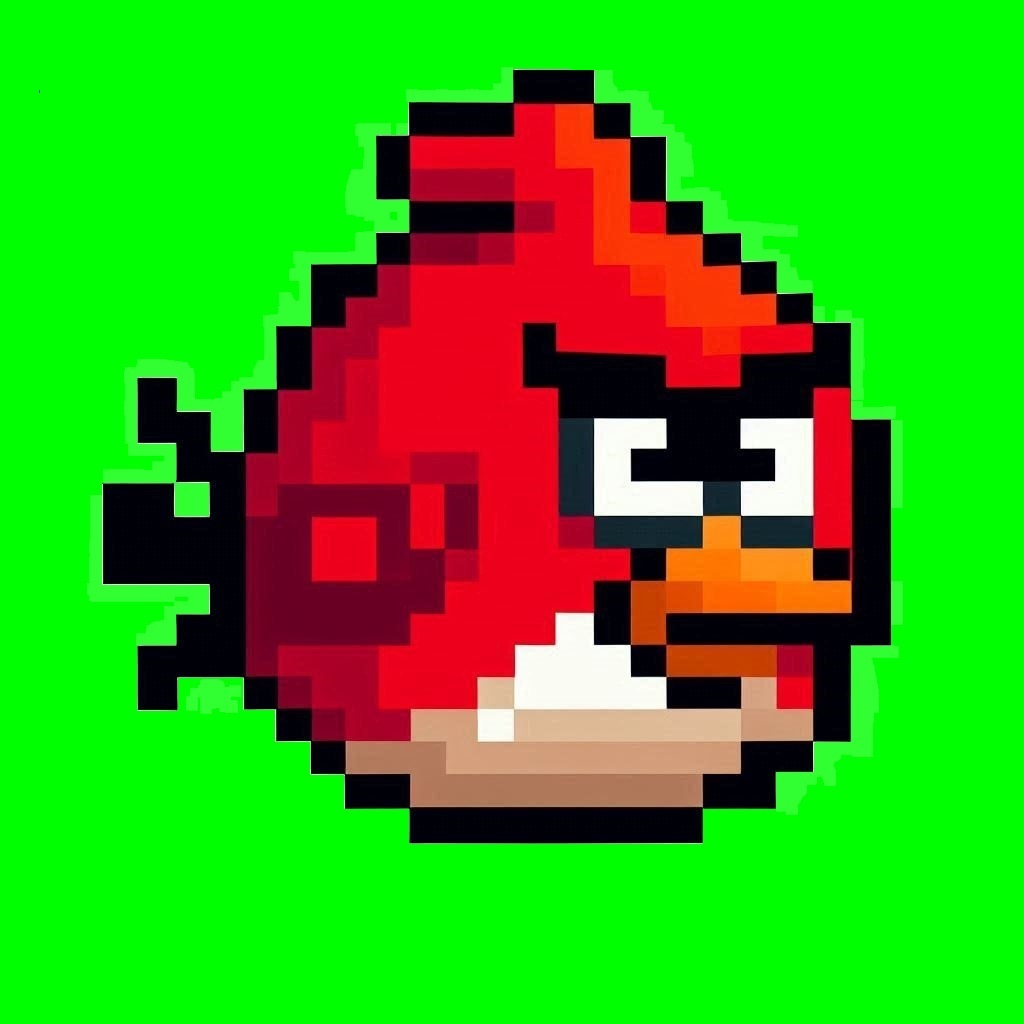
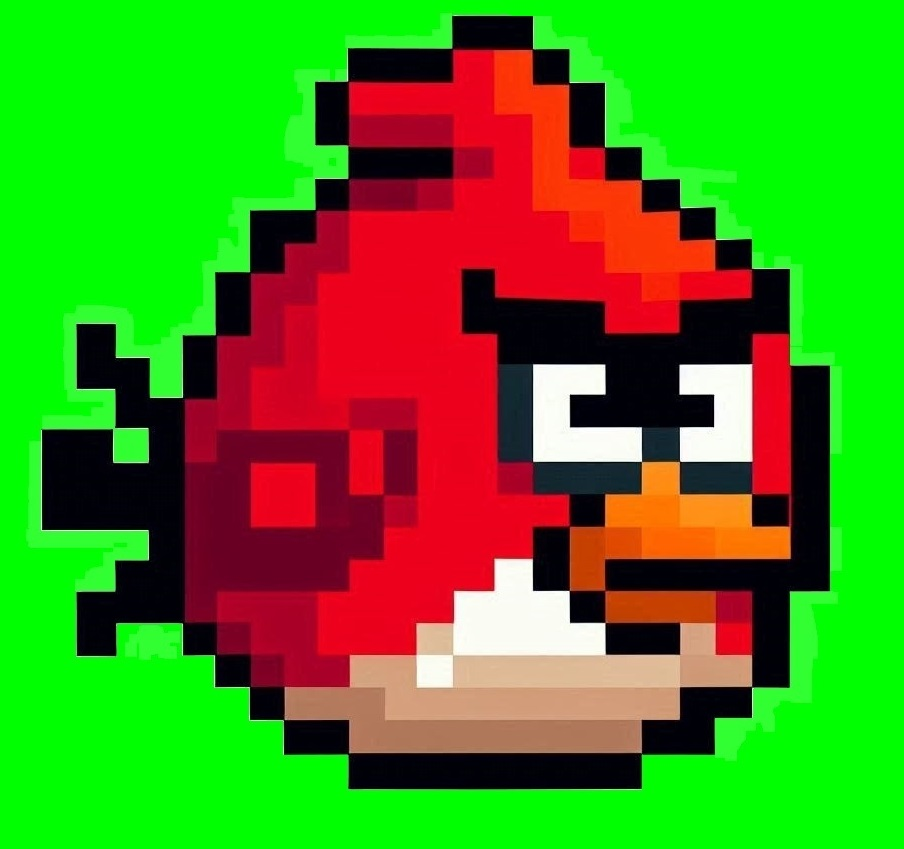
new choosen animal model

diff --git a/oolab/src/main/java/agh/ics/oop/model/Animal.java b/oolab/src/main/java/agh/ics/oop/model/Animal.java
@@ -74,14 +74,6 @@ public class Animal implements WorldElement {
         return position;
     }
 
-    public MapDirection getOrientation() {
-        return orientation;
-    }
-
-    public boolean isAt(Vector2d position){
-        return this.position.equals(position);
-    }
-
     public int getEnergy(){
         return energy;
     }
@@ -183,18 +175,14 @@ public class Animal implements WorldElement {
 
     public String getEnergyLevelResource() {
         int maxEnergy = simulationProperties.getMaxEnergy();
-        double energyPercentage = (double) this.energy;
-        if (energyPercentage < 0.2*maxEnergy) {
-            return "energy0.png";
-        } else if (energyPercentage < 0.4*maxEnergy) {
-            return "energy1.png";
-        } else if (energyPercentage < 0.6*maxEnergy) {
-            return "energy2.png";
-        } else if (energyPercentage < 0.8*maxEnergy) {
-            return "energy3.png";
-        } else {
-            return "energy4.png";
-        }
+        int energyLevel = (int) (5.0 * this.energy / maxEnergy);
+        return switch (energyLevel) {
+            case 0 -> "energy/energy0.png";
+            case 1 -> "energy/energy1.png";
+            case 2 -> "energy/energy2.png";
+            case 3 -> "energy/energy3.png";
+            default -> "energy/energy4.png";
+        };
     }
 
     public void removeEnergy(int energy) { this.energy -= energy; }

diff --git a/oolab/src/main/java/agh/ics/oop/presenter/WorldElementBox.java b/oolab/src/main/java/agh/ics/oop/presenter/WorldElementBox.java
@@ -87,8 +87,8 @@ public class WorldElementBox extends VBox {
             this.getChildren().clear();
             Image image = getImage(currImage);
             ImageView imageView = new ImageView(image);
-            imageView.setFitWidth(IMAGE_WIDTH + 15);
-            imageView.setFitHeight(IMAGE_HEIGHT + 15);
+            imageView.setFitWidth(IMAGE_WIDTH);
+            imageView.setFitHeight(IMAGE_HEIGHT);
             this.getChildren().add(imageView);
             addEnergyLevel(element);
             lastImage = currImage;

diff --git a/oolab/src/main/java/agh/ics/oop/model/AbstractWorldMap.java b/oolab/src/main/java/agh/ics/oop/model/AbstractWorldMap.java
@@ -140,12 +140,6 @@ public abstract class AbstractWorldMap implements WorldMap {
                 newDay);
     }
 
-//    private int getNumberOfAnimals() {
-//        int cnt = 0;
-//        for (List<Animal> animalList : animals.values()) {
-//            cnt+=animalList.size();
-//        }
-//        return cnt;}
     private int getNumberOfAnimals() {
         return simulation.getAnimals().size();
 }

diff --git a/oolab/src/main/java/agh/ics/oop/model/PrefferdCell.java b/oolab/src/main/java/agh/ics/oop/model/PrefferdCell.java
@@ -3,7 +3,7 @@ package agh.ics.oop.model;
 import agh.ics.oop.model.Enums.ElementType;
 
 public class PrefferdCell implements WorldElement {
-    private Vector2d position;
+    private final Vector2d position;
     public PrefferdCell(Vector2d position) {
         this.position = position;
     }
